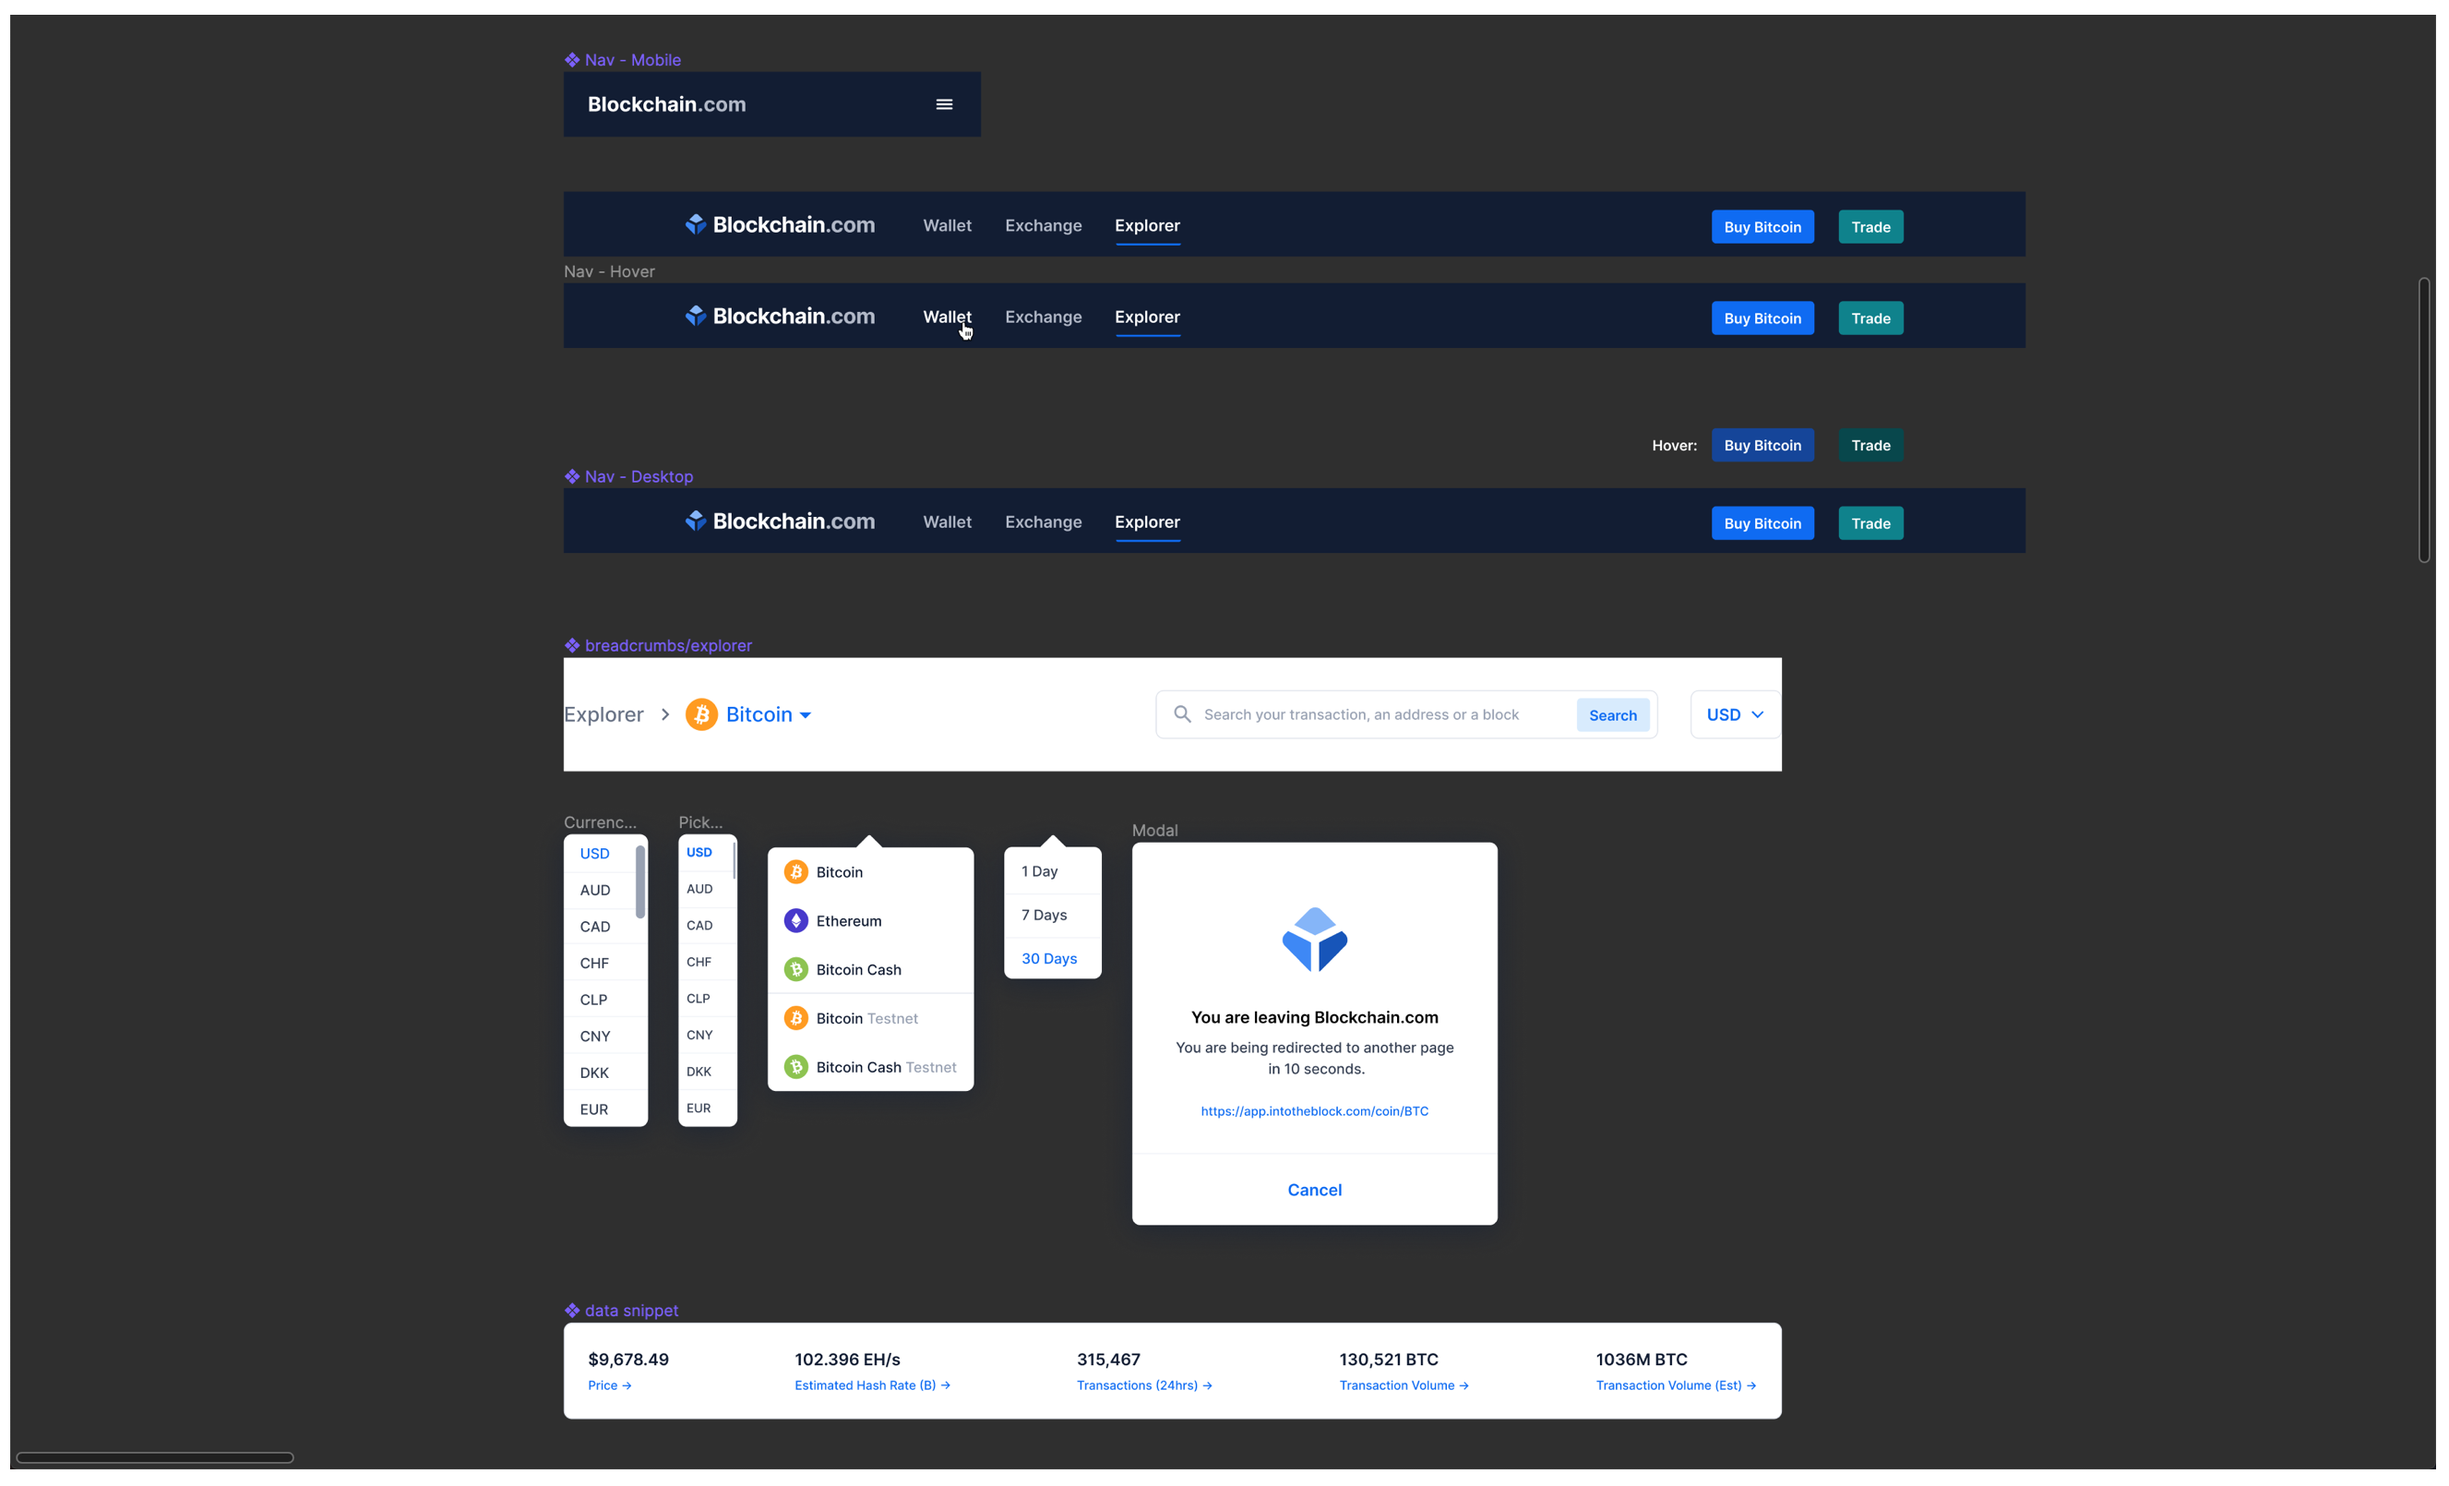
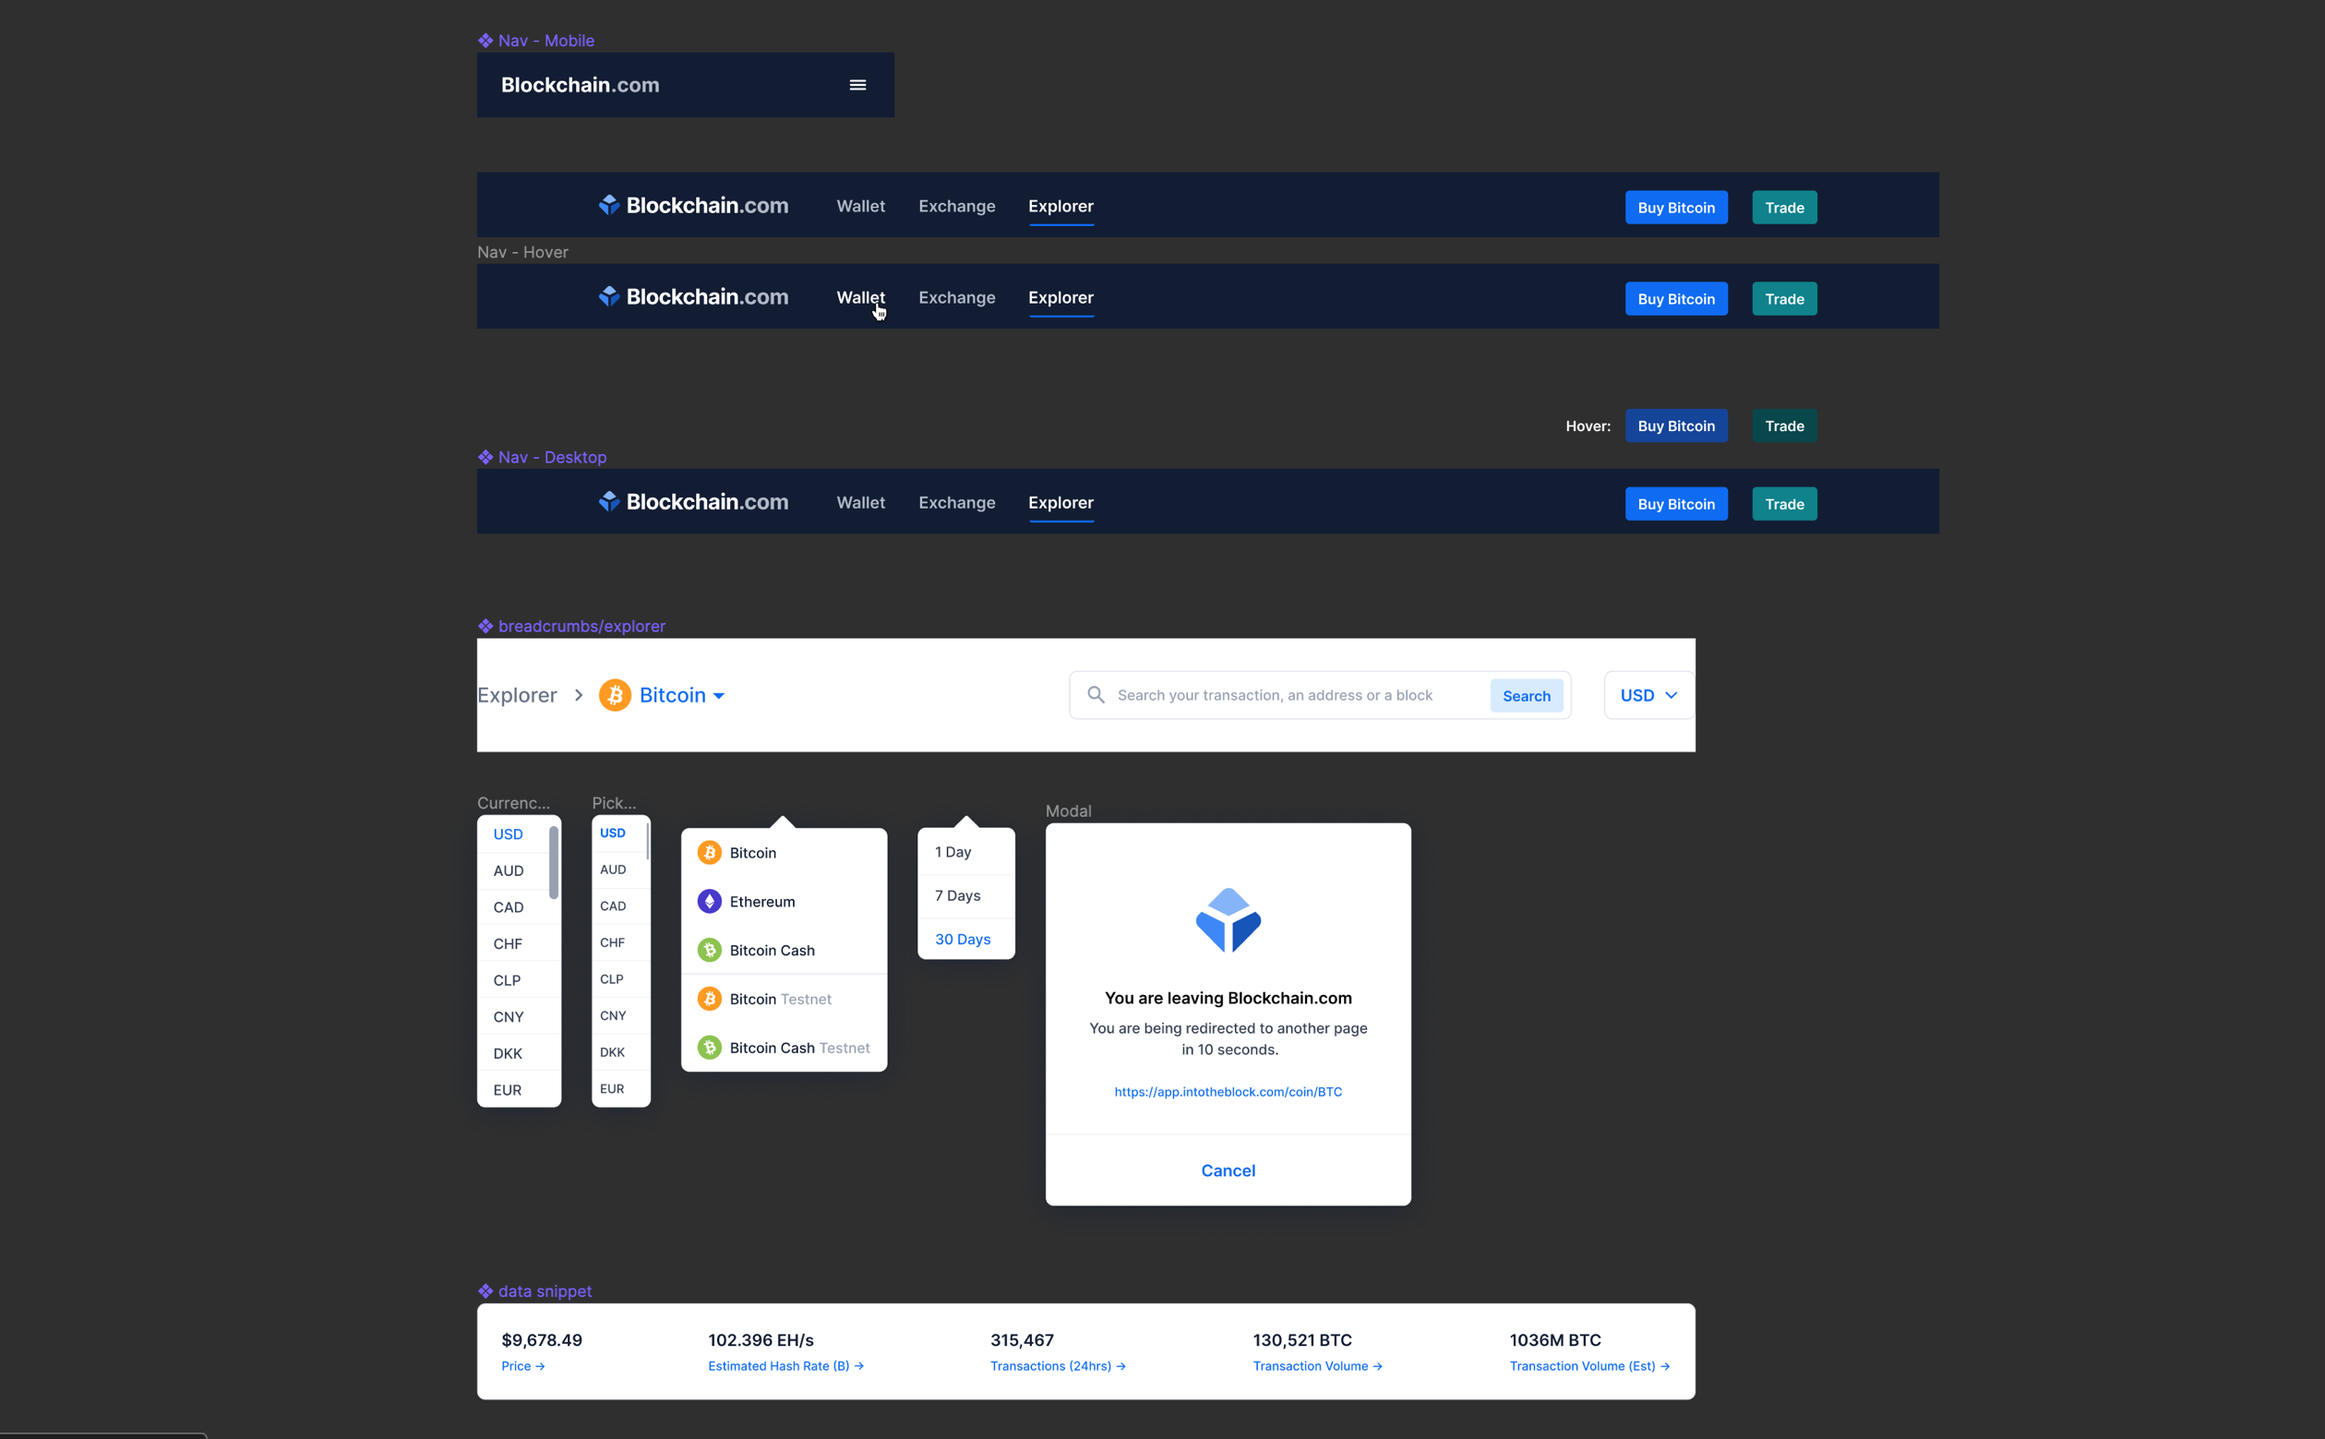
updated imgs
added border radius

diff --git a/styles.css b/styles.css
@@ -187,11 +187,13 @@ a:active {
 
 img {
   width: 100%;
+  border-radius: 10px;
 }
 
 .img_small {
   width: 70%;
   margin: auto;
+  border-radius: 10px;
 }
 
 /* footer */
@@ -262,6 +264,7 @@ img {
   left: 0;
   width: 100%;
   height: 100%;
+  border-radius: 10px;
 }
 
 
